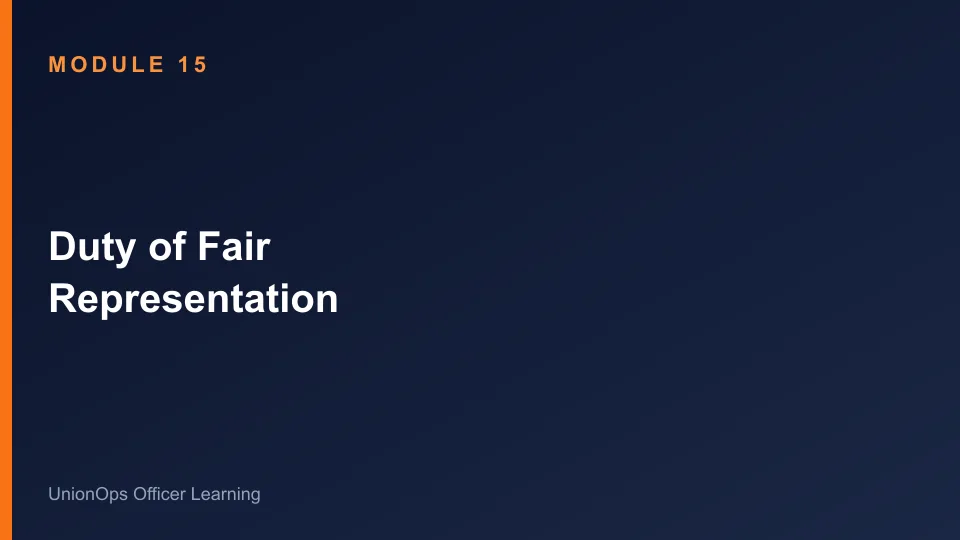
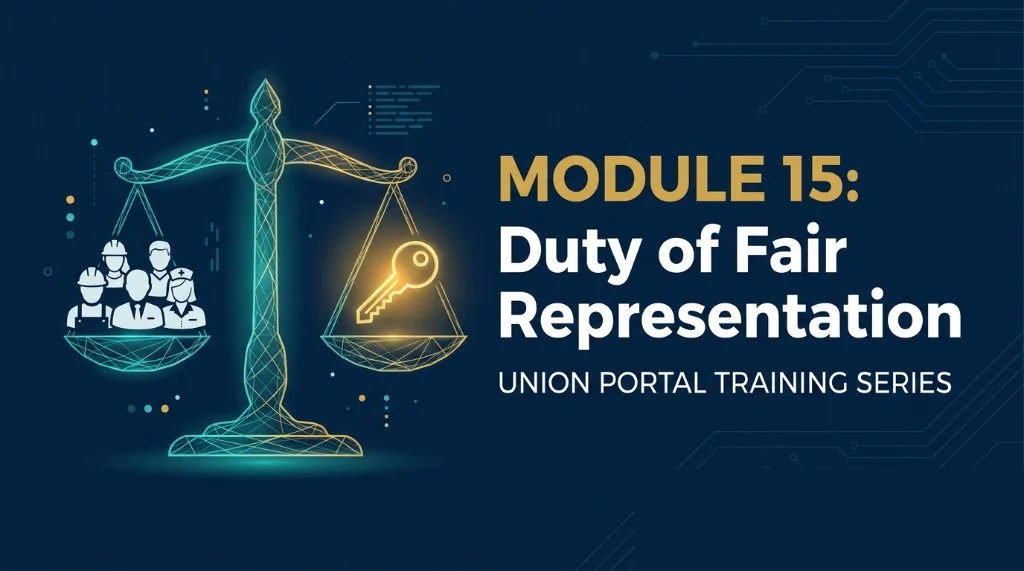
feat(officer-learning): ship illustrated covers for modules 15-16
Replace SVG placeholders with theme-mapped art (scales to DFR, shields to seniority) after paint-matching Gemini Notebook watermarks.

diff --git a/docs/audit/session-knowledge-2026-09-06-officer-learning-knowledge-expansion.md b/docs/audit/session-knowledge-2026-09-06-officer-learning-knowledge-expansion.md
@@ -39,7 +39,7 @@ Also:
 
 - Tracks filter both the path diagram and the card grid; path still uses md 2 / lg 4 / xl 5.
 - Hub sync panel sits beside progress prefs (not buried below a divider stack).
-- Covers for 15–16 are solid branded SVG→webp placeholders — replace with illustrated art when available (strip Gemini watermarks).
+- Covers for 15–16: illustrated art shipped (scales→15, shields→16); Gemini Notebook watermark paint-matched before webp.
 
 ---
 
